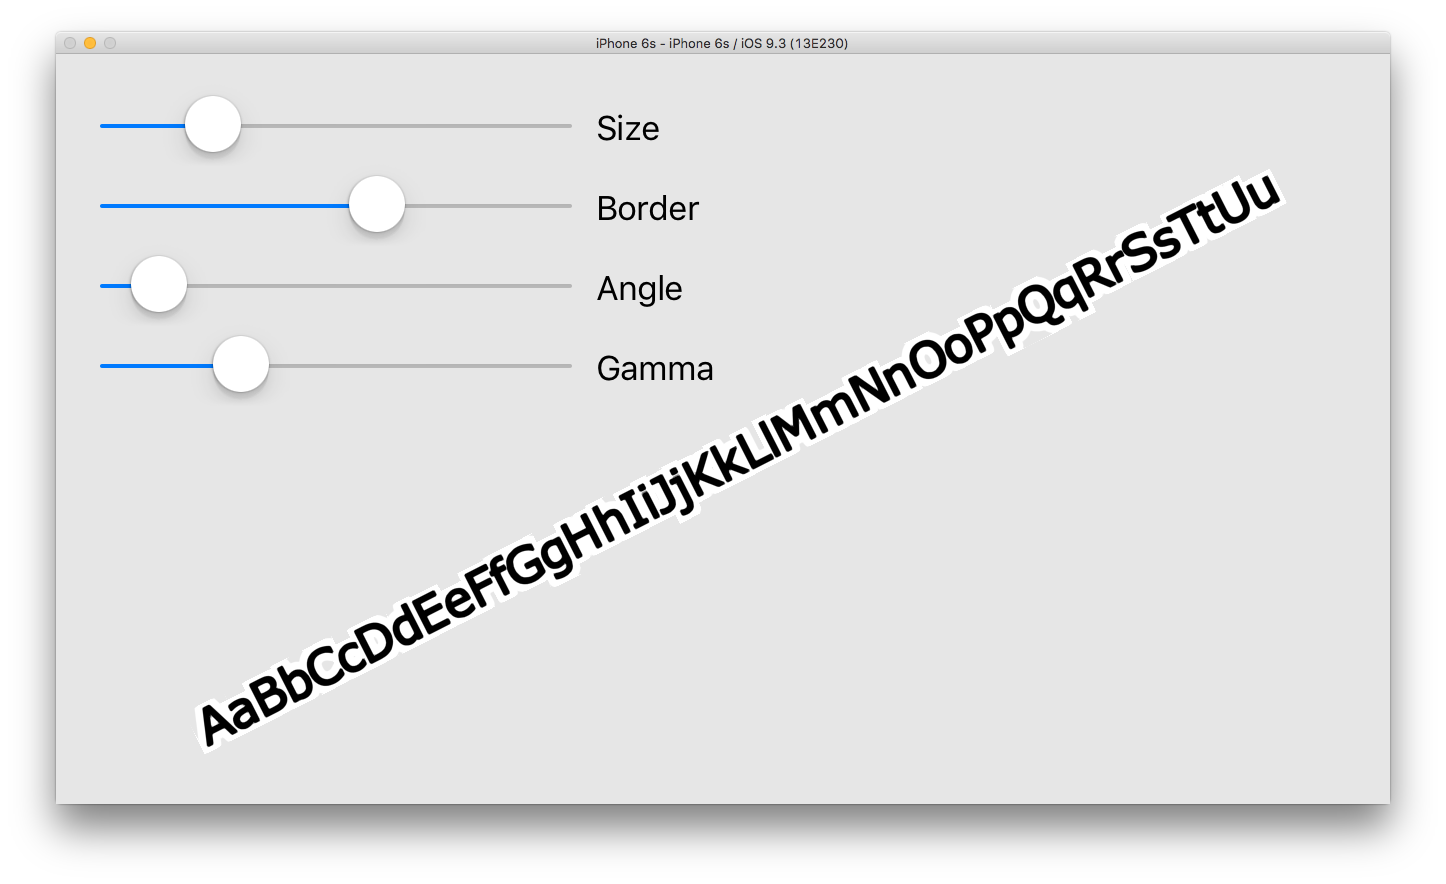
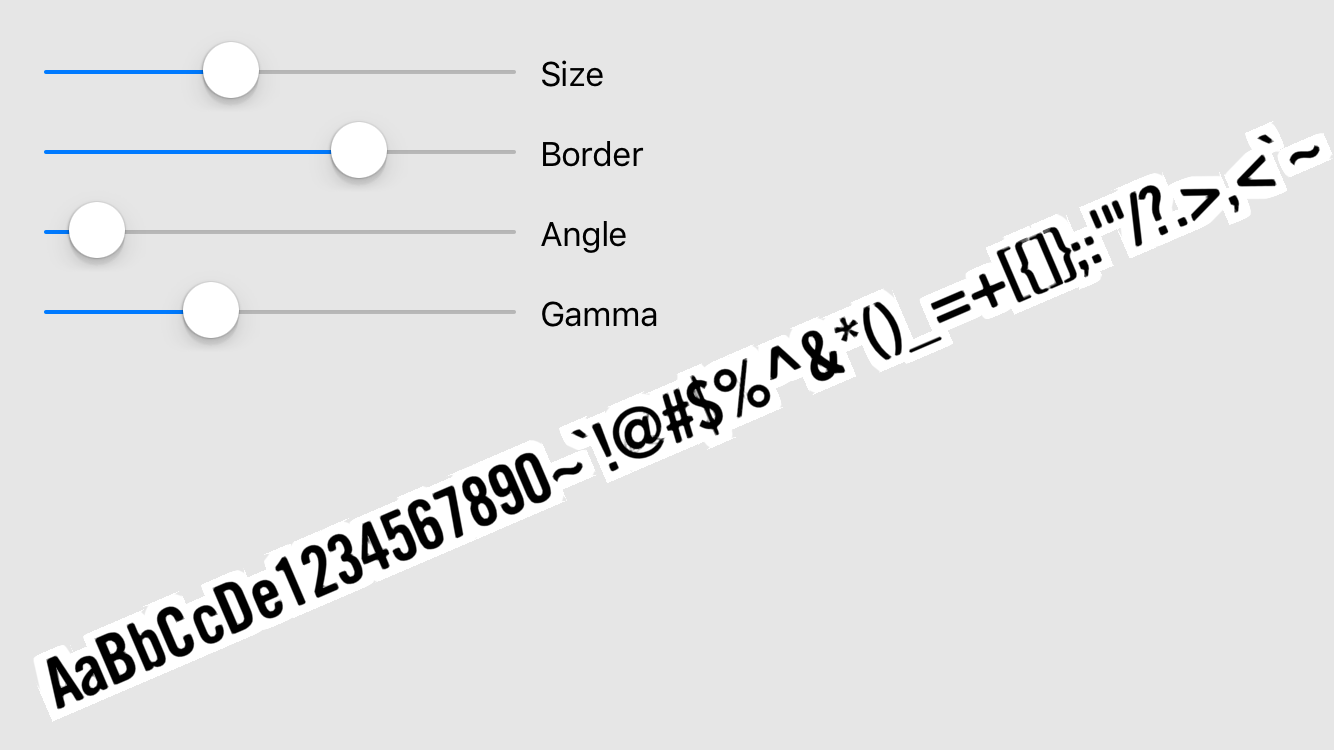
More blah blah in the README, screenshot uses a trickier font and text.

Changed region(s): [[0.0, 0.0, 1.0, 1.0]]

diff --git a/xamarin/GLViewController.cs b/xamarin/GLViewController.cs
@@ -21,7 +21,7 @@ namespace SDFExample
 
 	public class GLViewController : UIViewController
 	{
-		string sampleText = "SignedDistanceFieldDemoForZotebook&ZoteLib";
+		string sampleText = "AaBbCcDe1234567890~`!@#$%^&*()_=+[{]};:'\"/?.>,<`~";
 		string sdfMapDir = "tradegothic-ttf.sdf";
 
 		string shader = "SDFShader";

diff --git a/xamarin/GLView.cs b/xamarin/GLView.cs
@@ -138,4 +138,3 @@ namespace SDFExample
 		}
 	}
 }
-

diff --git a/README.md b/README.md
@@ -1,4 +1,9 @@
-# sdf-client
-Signed distance field client code (in C#) that consumes atlas/lookup from sdf-cartographer to support OpenGL text
+# Signed Distance Field for OpenGL ES 2.0 Text
+
+This project shows how to use signed distance fields (SDFs) to use text in OpenGL. It is written in C# using Xamarin to build a Xamarin.iOS demo. It should be easily adaptable to Android or other platforms.
+
+This project expects an SDF texture with a JSON descriptor. Refer to the [`sdf-cartographer`](https://github.com/zotebook/sdf-cartographer) project for tooling to convert TTF and OTF fonts into the format this example can use.
 
 ![Screenshot](https://raw.githubusercontent.com/zotebook/sdf-client/master/xamarin/screenshot.png)
+
+This project is based on [Mapbox's signed distance field shader](https://www.mapbox.com/blog/text-signed-distance-fields/).
